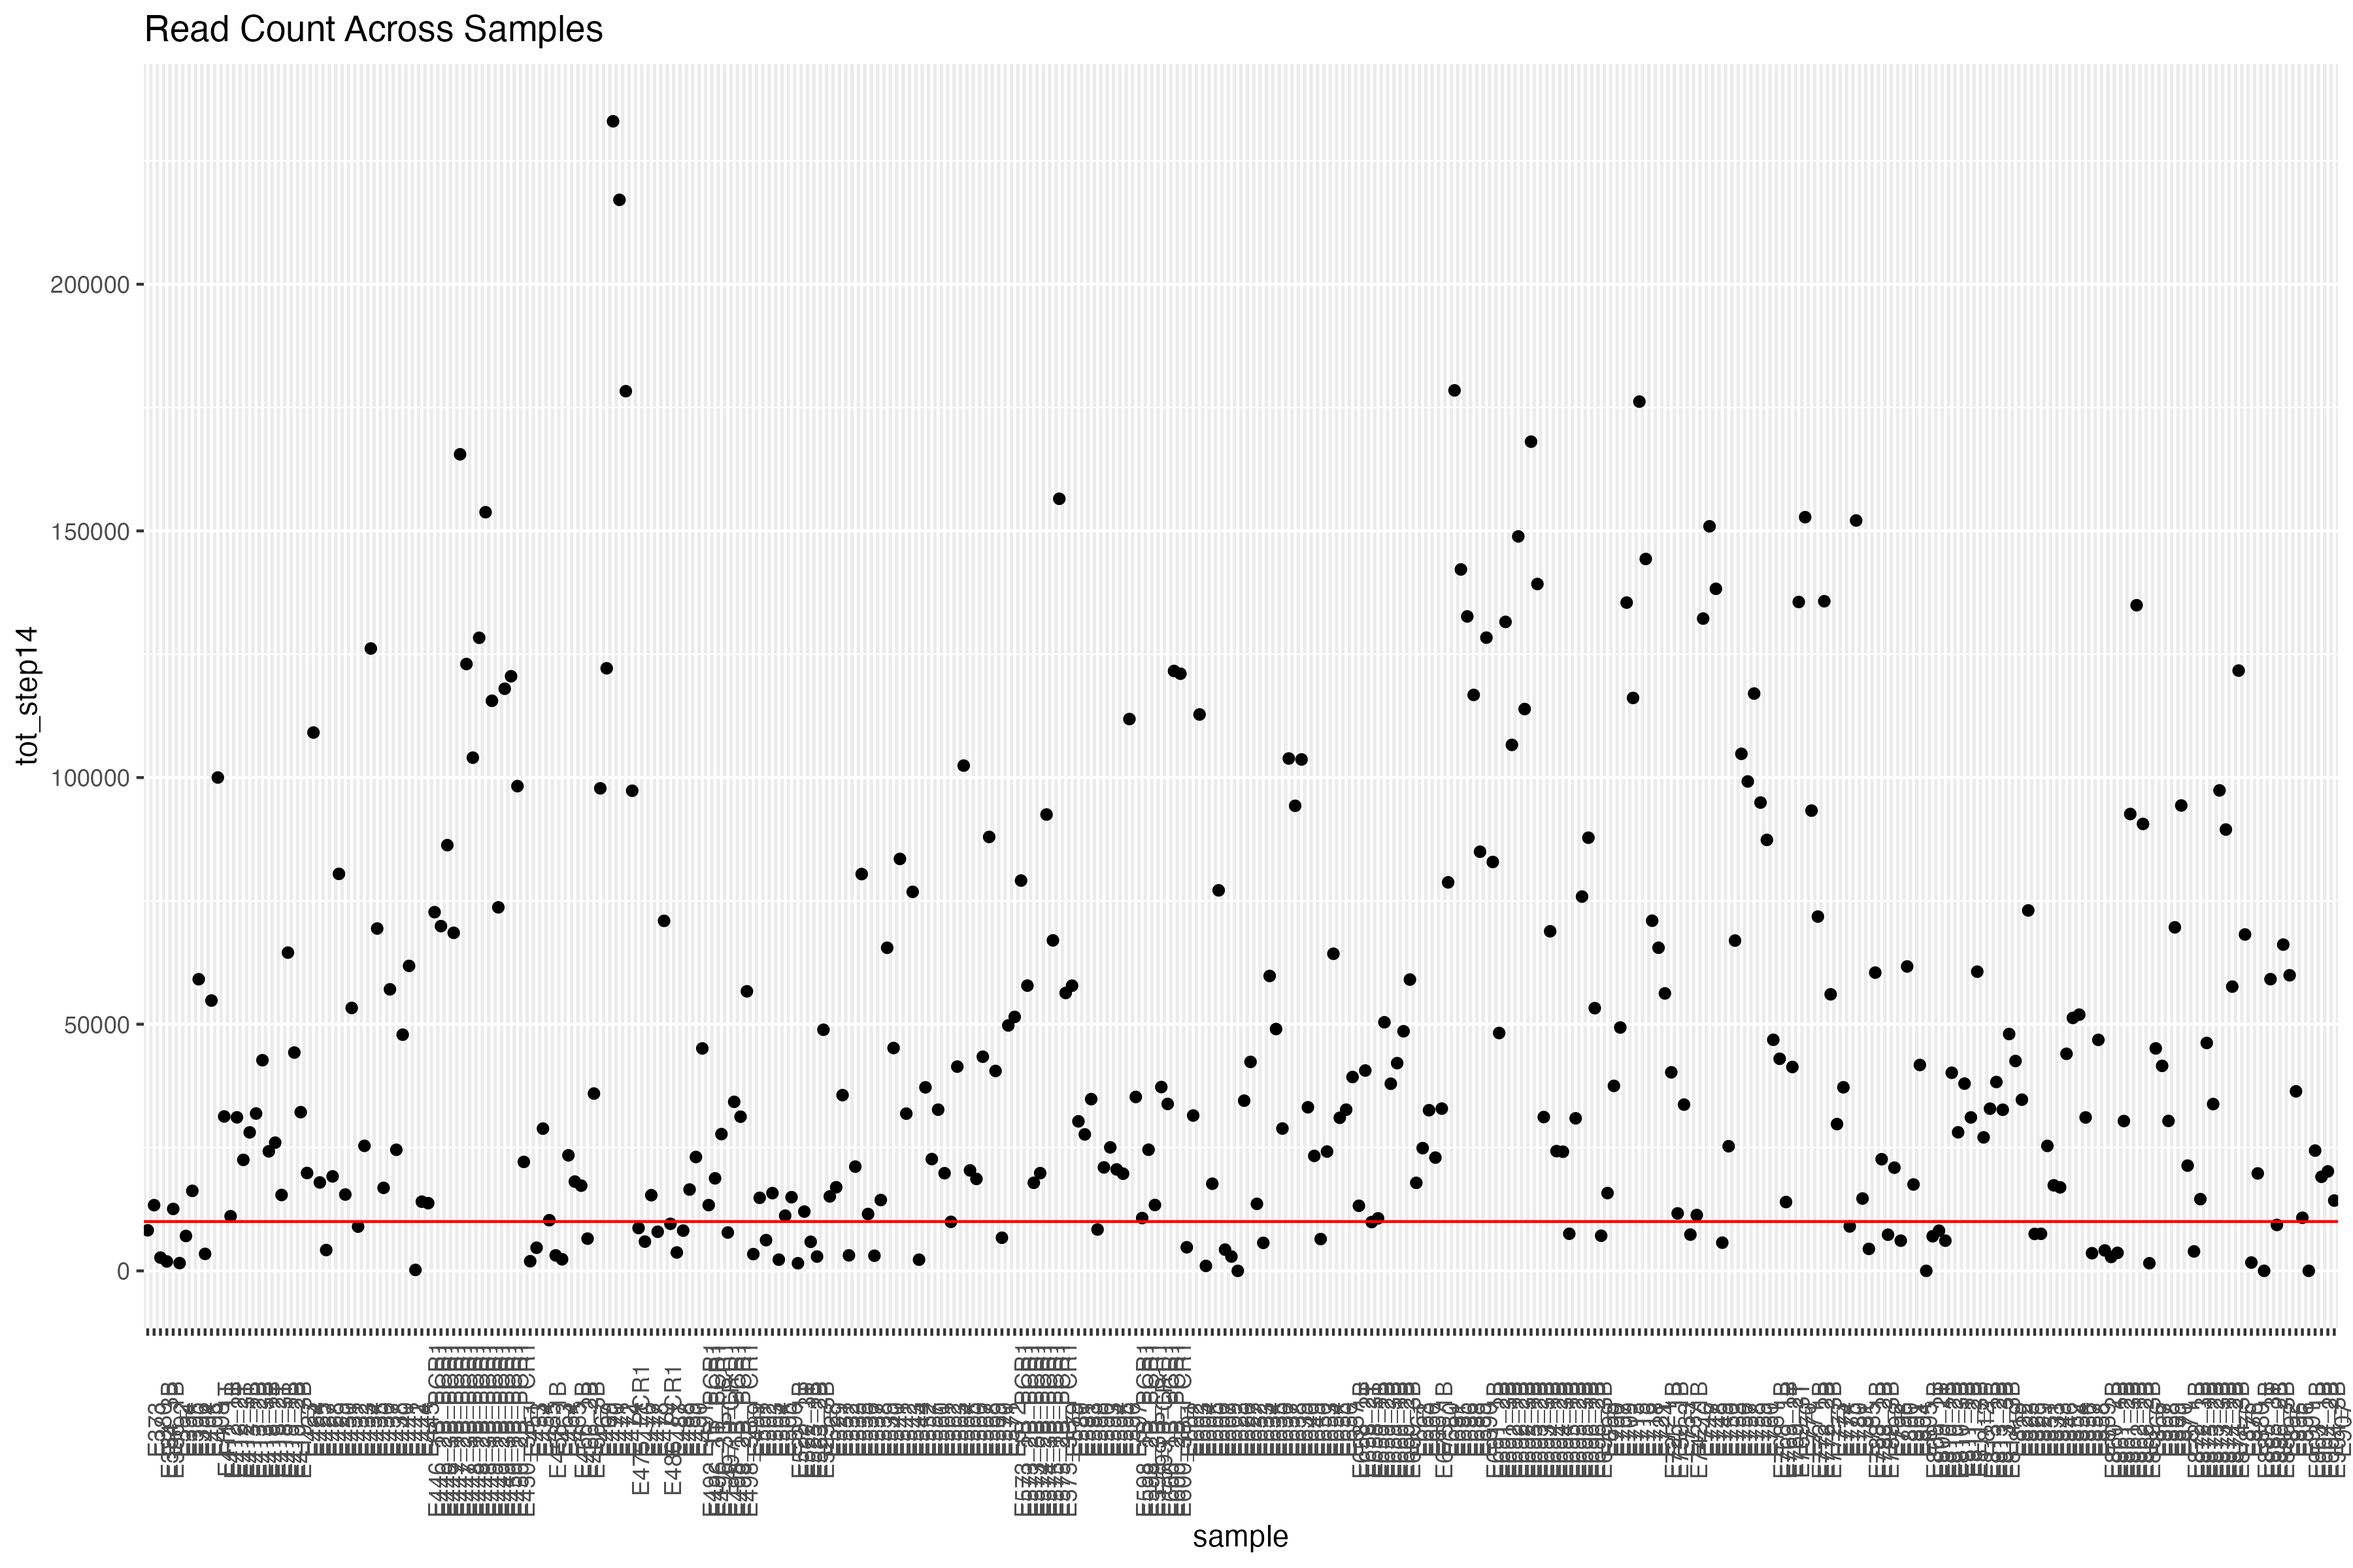
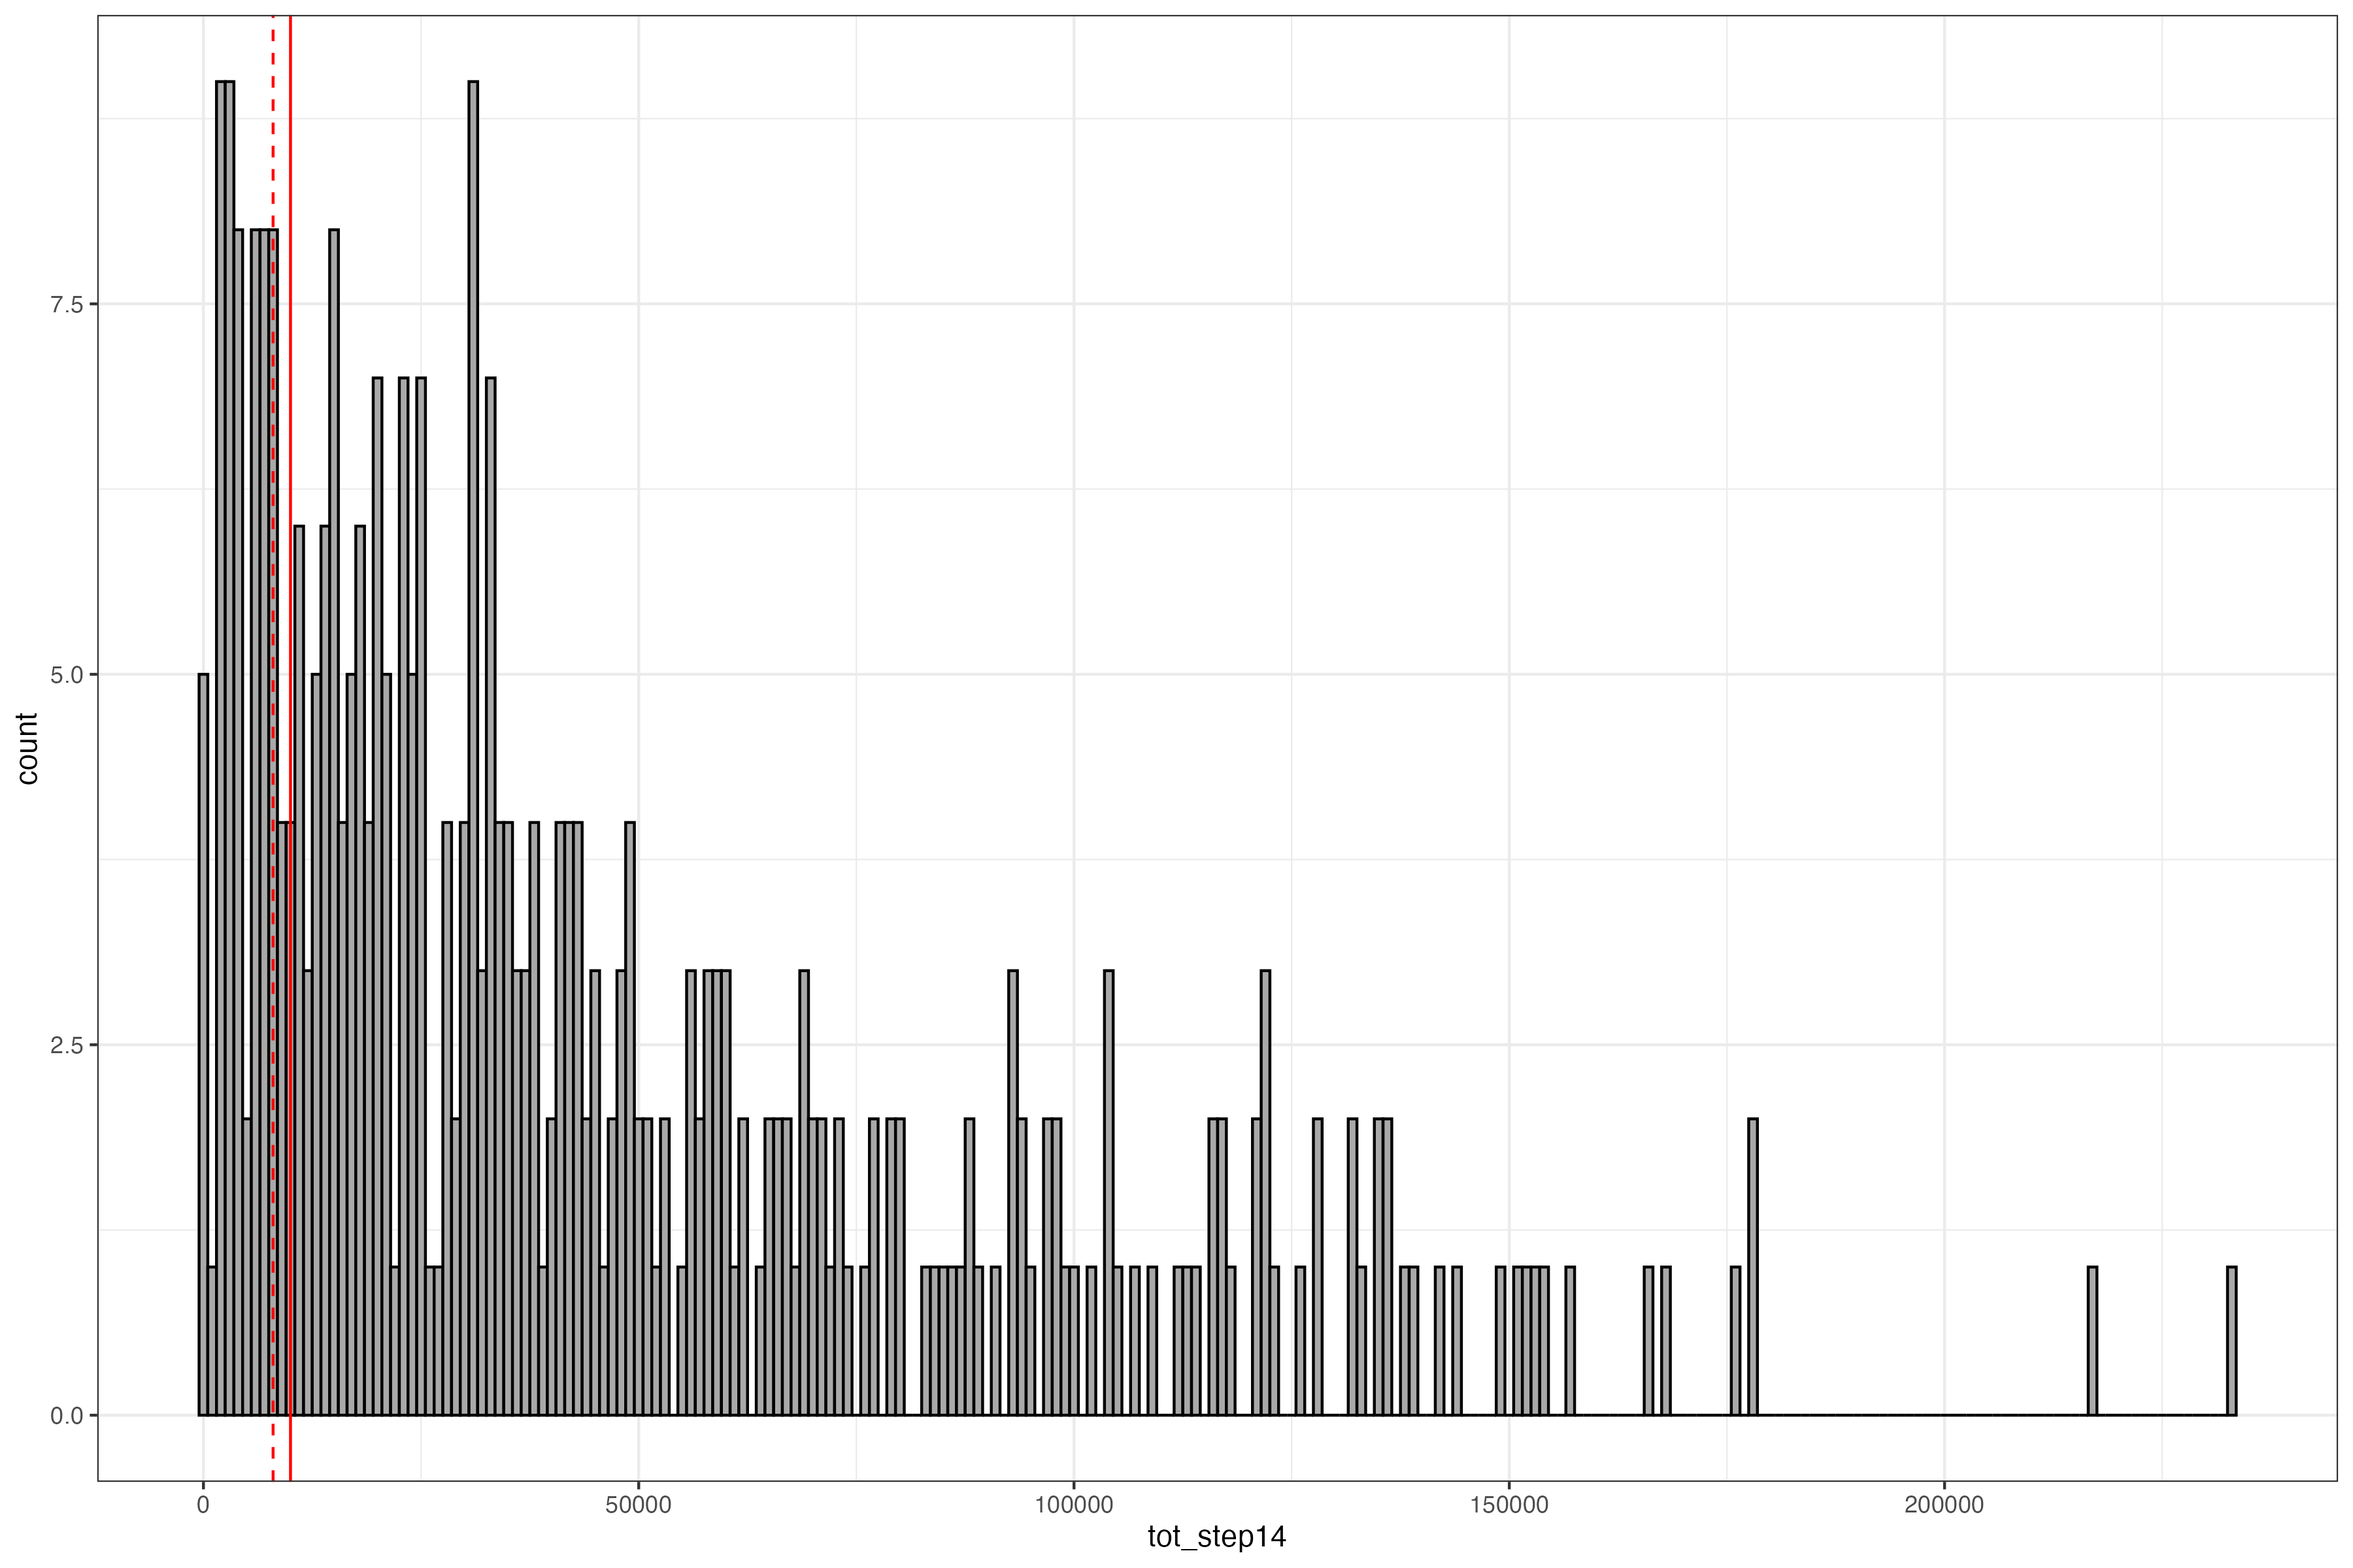
Updating script for Step 13

diff --git a/output/12S/Run1_Decontam_partIV.html b/output/12S/Run1_Decontam_partIV.html
@@ -996,12 +996,11 @@ names(reads.per.sample) &lt;- all.reps %&gt;%
   pull(sample)</code></pre>
 <div id="visualize-read-counts-across-samples-before-step-14-filtering" class="section level4">
 <h4>Visualize Read Counts Across Samples before Step 14 filtering:</h4>
-<pre class="r"><code>plot_step13 &lt;- all.reps %&gt;%
-  ggplot(., aes(x = sample, y = tot_step14)) +
-  geom_point() +
-  geom_hline(yintercept = 10000, color=&quot;red&quot;) +
-  ggtitle(&quot;Read Count Across Samples&quot;) +
-  theme(axis.text.x = element_text(angle = 90))
+<pre class="r"><code>plot_step13 &lt;- ggplot(all.reps, aes(x = tot_step14)) +
+  geom_histogram(binwidth=1000, fill=&quot;darkgrey&quot;, color=&quot;black&quot;) +
+  geom_vline(xintercept = 10000, color=&quot;red&quot;) +
+  geom_vline(xintercept = 8000, color=&quot;red&quot;, linetype = &quot;dashed&quot;) +
+  theme_bw()
 
 ggsave(
   plot = plot_step13,
